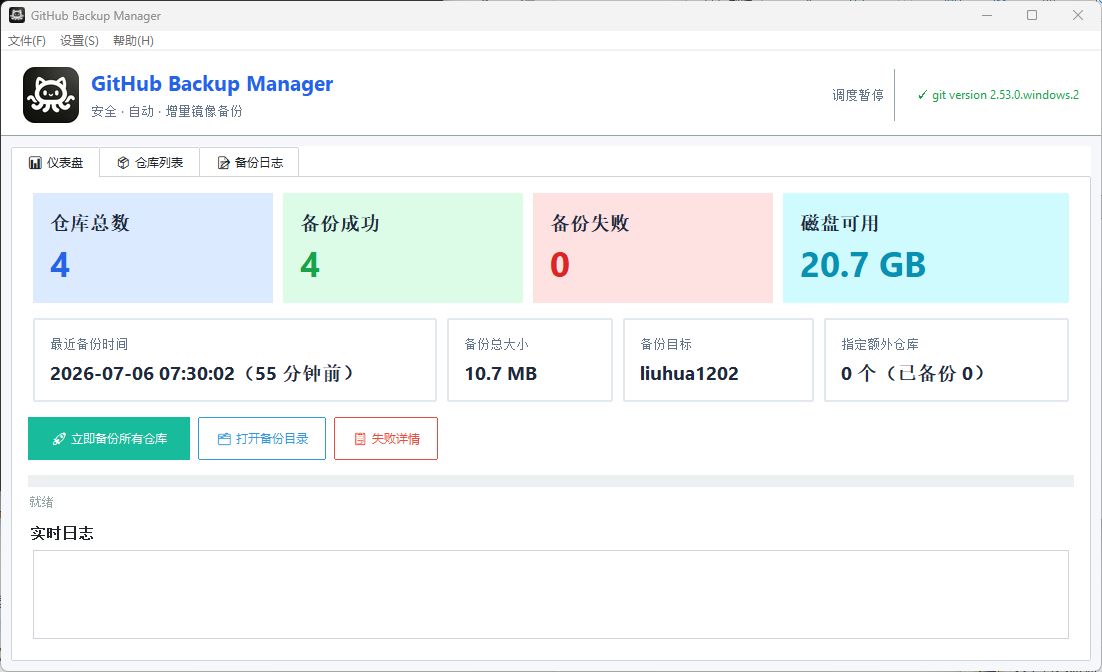
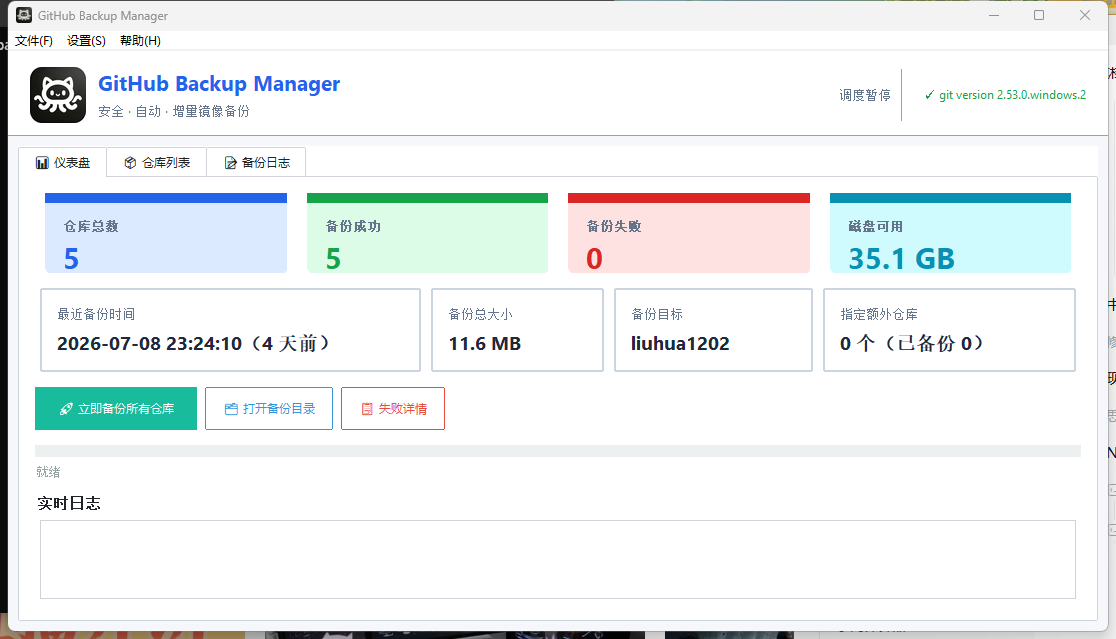
feat(ui): 仪表盘指标卡片升级为 Metro 磁贴风
v1.2.0 UI 升级

- 指标卡片：白底 + 4 边 6px 圆角 + 顶部 10px accent 描边 + 浅 accent 底
- 数值字色 = accent 色（与顶部描边联动）
- 卡片间距 padx 5 → 10
- Palette 新增 PRIMARY_LIGHT/SUCCESS_LIGHT/DANGER_LIGHT/INFO_LIGHT 4 个浅色常量
- BORDER 加深（slate-200 → slate-300），DPI 缩放下清晰

实现细节：
- _metric_card 重写为 Canvas 像素级自绘（4 PIESLICE + 中心矩形组合做圆角）
- 绕开 ttkbootstrap 强制覆盖 Canvas bg 的问题（widget bg 失效 → 内部画满铺矩形）
- 轻量 _Handle 类 mock Label 接口，val.configure(text=...) 同步 Canvas
- resize handler 用 tag_raise 重建 z 顺序（修之前会盖住文字的 bug）

其他：
- 修备份完成日志「失败=0」误标红（按 fail_count 显式判 level）
- 清理死代码 MetricCard*.TFrame 样式（已无人用）
- 修 BORDER 1px 在高 DPI 下不可见（→ 2px solid）

版本：v1.1.0 → v1.2.0

Changed region(s): [[0.0, 0.0, 1.0, 1.0]]

diff --git a/app.py b/app.py
@@ -9,7 +9,7 @@ GitHub Backup Manager - 桌面应用版
 
 from __future__ import annotations
 
-__version__ = "1.1.0"
+__version__ = "1.2.0"
 __author__ = "liuhua"
 __license__ = "MIT"
 
@@ -23,6 +23,7 @@ import datetime
 import subprocess
 import tkinter as tk
 from tkinter import filedialog, messagebox, ttk
+from tkinter.constants import PIESLICE  # Canvas 圆角辅助用
 from pathlib import Path
 from typing import Any
 
@@ -320,9 +321,15 @@ class Palette:
     WARNING  = "#f59e0b"   # 警告（橙）
     INFO     = "#0891b2"   # 信息（青）
 
+    # 语义色 — 浅底（Tailwind 100，仪表盘卡背景用）
+    PRIMARY_LIGHT = "#dbeafe"  # blue-100
+    SUCCESS_LIGHT = "#dcfce7"  # green-100
+    DANGER_LIGHT  = "#fee2e2"  # red-100
+    INFO_LIGHT    = "#cffafe"  # cyan-100
+
     # 边框
-    BORDER      = "#e2e8f0"
-    BORDER_LIGHT = "#f1f5f9"
+    BORDER      = "#cbd5e1"   # slate-300：仪表盘卡片描边
+    BORDER_LIGHT = "#e2e8f0"  # 浅一档，给 Treeview 等细线用
 
     # Treeview 状态色
     TV_SUCCESS = "#16a34a"
@@ -1307,25 +1314,8 @@ class BackupApp(ttkb.Window):
                   background=[("selected", Palette.PRIMARY)],
                   foreground=[("selected", "#ffffff")])
 
-        # ── 指标卡片：浅色大色块 ──
-        for name, bg, fg in [
-            ("Primary", "#dbeafe", Palette.PRIMARY),
-            ("Success", "#dcfce7", Palette.SUCCESS),
-            ("Danger", "#fee2e2", Palette.DANGER),
-            ("Info", "#cffafe", Palette.INFO),
-        ]:
-            style.configure(f"MetricCard{name}.TFrame", background=bg)
-            # 标题：深色文本 + 更大的字号，在浅色背景上对比度强，避免 accent 色
-            # 在 pastel 上"发飘"看不清
-            style.configure(f"MetricTitle{name}.TLabel",
-                            background=bg, foreground=Palette.TEXT_PRIMARY,
-                            font=("Segoe UI", 14, "bold"))
-            # 主数值：保持 accent 色，主视觉冲击
-            style.configure(f"MetricValue{name}.TLabel",
-                            background=bg, foreground=fg,
-                            font=("Segoe UI", 26, "bold"))
-
         # ── 信息卡片：白色背景 + 细边框 ──
+        # 注：指标卡片（_metric_card）改用 Canvas 自绘，不再依赖 ttk 样式
         style.configure("InfoCard.TFrame", background=Palette.BG_CARD, relief="solid",
                         borderwidth=1, bordercolor=Palette.BORDER)
         style.configure("InfoCardTitle.TLabel",
@@ -1640,24 +1630,130 @@ class BackupApp(ttkb.Window):
             return "log_success"
         return ""
 
-    def _metric_card(self, parent, title, value, style, col) -> ttkb.Label:
-        """创建摘要指标卡片：浅色大色块风格。"""
-        if style == SUCCESS:
-            name = "Success"
-        elif style == DANGER:
-            name = "Danger"
-        elif style == INFO:
-            name = "Info"
-        else:
-            name = "Primary"
+    def _metric_card(self, parent, title, value, style, col):
+        """创建摘要指标卡片：Metro 磁贴风 —— 浅 accent 圆角底 + 10px 顶部 accent 描边。
 
-        card = ttkb.Frame(parent, padding=15, style=f"MetricCard{name}.TFrame")
-        card.grid(row=0, column=col, padx=5, sticky=NSEW)
+        设计：参考 subnet-calculator 的 .tile 风格 + 自身浅色系配色方案
+            - 顶部 10px accent 描边（粗，强调语义，圆角）
+            - 卡片底色 = accent 浅色（Tailwind 100），四边 6px 圆角
+            - 数值大号，字色 = accent（与顶部描边联动，强语义）
+            - 标题小号次要文字色
+
+        实现：Canvas 像素级自绘（绕开 ttkbootstrap Canvas bg 覆盖问题）。
+        圆角通过 4 个 create_arc PIESLICE + 中心矩形组合。
+        z 顺序：bg < stripe < text —— 用 tag 标记保证 resize 重绘后顺序不乱。
+        """
+        # style(ttkbootstrap 常量) → (style 名称, accent 颜色, accent 浅色)
+        if style == SUCCESS:
+            name, accent, accent_light = "Success", Palette.SUCCESS, Palette.SUCCESS_LIGHT
+        elif style == DANGER:
+            name, accent, accent_light = "Danger", Palette.DANGER, Palette.DANGER_LIGHT
+        elif style == INFO:
+            name, accent, accent_light = "Info", Palette.INFO, Palette.INFO_LIGHT
+        else:
+            name, accent, accent_light = "Primary", Palette.PRIMARY, Palette.PRIMARY_LIGHT
+
+        RADIUS = 6     # 圆角半径
+        STRIPE_H = 10  # 顶部 accent 描边高度
+        CARD_H = 80    # 卡片总高
+
+        # Canvas 卡框：固定高度，圆角自绘
+        card = tk.Canvas(parent, highlightthickness=0, bd=0, height=CARD_H)
+        card.grid(row=0, column=col, padx=10, sticky=NSEW)
         parent.grid_columnconfigure(col, weight=1)
-        ttkb.Label(card, text=title, style=f"MetricTitle{name}.TLabel").pack(anchor=W)
-        val_label = ttkb.Label(card, text=value, style=f"MetricValue{name}.TLabel")
-        val_label.pack(anchor=W)
-        return val_label
+        parent.grid_rowconfigure(0, minsize=CARD_H)
+        card.grid_propagate(False)
+
+        # ── 圆角矩形辅助：4 个角的 PIESLICE + 中心矩形 ──
+        def _rounded_rect_all(x1, y1, x2, y2, r, **kw):
+            """四边都圆角的矩形，返回 item id 列表"""
+            r = max(0, min(r, (x2 - x1) / 2, (y2 - y1) / 2))
+            if r <= 0:
+                return [card.create_rectangle(x1, y1, x2, y2, **kw)]
+            ids = [
+                card.create_arc(x1, y1, x1 + 2*r, y1 + 2*r,
+                                start=90, extent=90, style=PIESLICE, **kw),
+                card.create_arc(x2 - 2*r, y1, x2, y1 + 2*r,
+                                start=0, extent=90, style=PIESLICE, **kw),
+                card.create_arc(x1, y2 - 2*r, x1 + 2*r, y2,
+                                start=180, extent=90, style=PIESLICE, **kw),
+                card.create_arc(x2 - 2*r, y2 - 2*r, x2, y2,
+                                start=270, extent=90, style=PIESLICE, **kw),
+                card.create_rectangle(x1 + r, y1, x2 - r, y2, **kw),
+                card.create_rectangle(x1, y1 + r, x2, y2 - r, **kw),
+                card.create_rectangle(x1 + r, y1 + r, x2 - r, y2 - r, **kw),
+            ]
+            return ids
+
+        def _rounded_top_rect(x1, y1, x2, y2, r, **kw):
+            """仅顶部圆角的矩形（底部直角），返回 item id 列表"""
+            r = max(0, min(r, (x2 - x1) / 2, (y2 - y1) / 2))
+            if r <= 0:
+                return [card.create_rectangle(x1, y1, x2, y2, **kw)]
+            ids = [
+                card.create_arc(x1, y1, x1 + 2*r, y1 + 2*r,
+                                start=90, extent=90, style=PIESLICE, **kw),
+                card.create_arc(x2 - 2*r, y1, x2, y1 + 2*r,
+                                start=0, extent=90, style=PIESLICE, **kw),
+                card.create_rectangle(x1, y1, x2, y2, **kw),
+            ]
+            return ids
+
+        # ── 绘制：bg + stripe + text，全部用 tag 标记方便 z 排序 ──
+        _bg_items = _rounded_rect_all(0, 0, 100, CARD_H, RADIUS,
+                                       fill=accent_light, outline="",
+                                       tags=("bg",))
+        _stripe_items = _rounded_top_rect(0, 0, 100, STRIPE_H, RADIUS,
+                                           fill=accent, outline="",
+                                           tags=("stripe",))
+        _title_id = card.create_text(18, 24, text=title, anchor=NW,
+                                      fill=Palette.TEXT_SECONDARY,
+                                      font=("Segoe UI", 10, "bold"),
+                                      tags=("text",))
+        _value_id = card.create_text(18, 44, text=value, anchor=NW,
+                                      fill=accent,
+                                      font=("Segoe UI", 22, "bold"),
+                                      tags=("text",))
+        # 显式建立 z 顺序：bg < stripe < text
+        card.tag_raise("stripe", "bg")
+        card.tag_raise("text", "stripe")
+
+        # ── resize：删除旧圆角 item，重绘后用 tag 重建 z 顺序 ──
+        def _on_resize(event):
+            for item in _bg_items + _stripe_items:
+                card.delete(item)
+            new_bg = _rounded_rect_all(0, 0, event.width, CARD_H, RADIUS,
+                                        fill=accent_light, outline="",
+                                        tags=("bg",))
+            new_stripe = _rounded_top_rect(0, 0, event.width, STRIPE_H, RADIUS,
+                                            fill=accent, outline="",
+                                            tags=("stripe",))
+            _bg_items.clear()
+            _bg_items.extend(new_bg)
+            _stripe_items.clear()
+            _stripe_items.extend(new_stripe)
+            # 关键：resize 后新 bg/stripe 在 text 之后创建，会盖住 text，
+            # 必须重新建立 z 顺序
+            card.tag_raise("stripe", "bg")
+            card.tag_raise("text", "stripe")
+        card.bind("<Configure>", _on_resize)
+
+        # ── 句柄：模拟 ttkb.Label 接口，val.configure(text=...) 走 itemconfigure ──
+        class _Handle:
+            def __init__(self, initial):
+                self._text = initial
+            def configure(self, cnf=None, **kwargs):
+                if "text" in kwargs:
+                    self._text = kwargs["text"]
+                    card.itemconfigure(_value_id, text=self._text)
+                # 其他 configure 项（state、font 等）静默忽略
+            config = configure
+            def cget(self, key):
+                if key == "text":
+                    return self._text
+                return None
+
+        return _Handle(value)
 
     def _info_card(self, parent, title, value, col) -> ttkb.Label:
         """信息卡片：白色背景 + 标题 + 数值。"""

diff --git a/CHANGELOG.md b/CHANGELOG.md
@@ -3,6 +3,34 @@
 All notable changes to **GitHub Backup Manager** are documented here.
 Format: [SemVer](https://semver.org/). 项目作者：liuhua。
 
+## [v1.2.0] - 2026-07-13
+
+### 🎨 UI 升级
+- **仪表盘指标卡片重做**（Metro 磁贴风，参考 subnet-calculator `.tile` 风格）
+  - **顶部 10px accent 描边**：粗条带，凸显卡片语义（蓝/绿/红/青）
+  - **卡片底色 = accent 浅色版**（Tailwind 100 调色板）：dbeafe / dcfce7 / fee2e2 / cffafe
+  - **4 边 6px 圆角**：Canvas 像素级自绘（4 个 PIESLICE + 中心矩形组合）
+  - **数值字色 = accent 色**：与顶部描边联动，强语义化
+  - **卡片间距 padx 10**：更通透
+- **Palette 调色板扩展**：新增 `PRIMARY_LIGHT` / `SUCCESS_LIGHT` / `DANGER_LIGHT` / `INFO_LIGHT` 4 个浅色常量
+- **BORDER 加深**：从 `#e2e8f0` (slate-200) 改为 `#cbd5e1` (slate-300)，高 DPI 缩放下也清晰
+
+### 🐛 修复
+- **备份完成日志「失败 = 0」不再误标红**：之前用 `_infer_level` 启发式看到"失败"字眼就 ERROR，现在显式按 `fail_count > 0` 决定 level
+- **修复窗口 resize 后仪表盘文字消失**：Canvas 自绘的圆角 bg/stripe 在 resize handler 重画后会盖住 text 元素 —— 改用 `tag_raise("text", "stripe")` 显式重建 z 顺序
+- **修复 Windows 高 DPI 缩放下 1px 边框不可见**：边框用 `ttk.Frame` 的 `relief="solid", borderwidth=2, bordercolor=BORDER`，比 bg-trick 稳
+
+### 🛠 重构
+- **`_metric_card` 重写为 Canvas 像素级自绘**：原来用 `tk.Frame` + pack/grid 各种踩坑（ttk padding 吃 pack 间隙 / grid propagate 缩掉 stripe / ttkbootstrap Canvas bg 被覆盖），最终方案：Canvas 内部画圆角矩形 + 顶条 + 文字
+- **轻量 `_Handle` 类 mock Label 接口**：`val.configure(text=...)` 自动同步 Canvas 文字，调用方无感
+- **删除死代码**：`MetricCard*.TFrame` 样式已无人使用（v1.2.0 改 Canvas 自绘）
+
+### 📝 文档
+- **README.md** 更新版本号到 v1.2.0 + 替换仪表盘截图
+- **CHANGELOG.md** 加 v1.2.0 段
+
+---
+
 ## [v1.1.0] - 2026-07-06
 
 ### 🎨 新增 / 优化

diff --git a/README.md b/README.md
@@ -1,6 +1,6 @@
 # GitHub Backup Manager · GitHub 仓库桌面备份工具
 
-[![Version](https://img.shields.io/badge/version-v1.1.0-0078d4?style=flat-square)](#-v110-变更摘要)
+[![Version](https://img.shields.io/badge/version-v1.2.0-0078d4?style=flat-square)](#-v120-变更摘要)
 [![License: MIT](https://img.shields.io/badge/License-MIT-yellow.svg?style=flat-square)](#-许可证)
 [![Platform](https://img.shields.io/badge/platform-Windows%20%7C%20macOS%20%7C%20Linux-0078d4?style=flat-square)](#-特性)
 [![Python](https://img.shields.io/badge/python-3.10%2B-3776AB?style=flat-square)](https://www.python.org/)
@@ -30,7 +30,7 @@ APScheduler 定时调度、Token 安全脱敏、嵌入式 IDE 风格文件浏览
 <p align="center">
   <img src="docs/screenshots/dashboard.png" alt="GitHub Backup Manager 仪表盘" width="900">
 </p>
-<p align="center"><em>仪表盘 —— 仓库总数 / 备份成功失败 / 磁盘可用 / 备份目标 / 实时日志</em></p>
+<p align="center"><em>仪表盘 —— Metro 磁贴风指标卡片（顶部 10px accent 描边 + 浅 accent 圆角底）+ 仓库总数 / 备份成功失败 / 磁盘可用 / 备份目标 / 实时日志</em></p>
 
 <p align="center">
   <img src="docs/screenshots/repo-list.png" alt="GitHub Backup Manager 仓库列表" width="900">
@@ -104,11 +104,11 @@ APScheduler 定时调度、Token 安全脱敏、嵌入式 IDE 风格文件浏览
 
 | 平台 | 文件 | 大小 | 说明 |
 | :--- | :--- | :--- | :--- |
-| Windows | `GitHub-Backup-Manager-v1.1.0-windows-x86_64.zip` | ~10 MB | 单文件可执行，解压即用 |
+| Windows | `GitHub-Backup-Manager-v1.2.0-windows-x86_64.zip` | ~10 MB | 单文件可执行，解压即用 |
 | macOS | `Source code (zip)` | — | 暂未提供 macOS 二进制（PyInstaller 需跨平台编译） |
 | Linux | `Source code (tar.gz)` | — | 同上 |
 
-### v1.1.0 SHA256
+### v1.2.0 SHA256
 
 ```
 （release 创建后由 GitHub Action 自动生成并展示）
@@ -131,7 +131,7 @@ python app.py
 
 ### Windows 单文件版
 
-下载 `GitHub-Backup-Manager-v1.1.0-windows-x86_64.zip` → 解压 → 双击 `GitHubBackupManager.exe` 运行。
+下载 `GitHub-Backup-Manager-v1.2.0-windows-x86_64.zip` → 解压 → 双击 `GitHubBackupManager.exe` 运行。
 
 启动后弹出首次设置向导：
 
@@ -230,6 +230,21 @@ pyinstaller --onefile --windowed --name GitHubBackupManager \
 | 找不到 `config.json` | 路径在 Windows 可能被杀毒软件隔离 |
 
 ---
+
+## 🆕 v1.2.0 变更摘要
+
+相对 v1.1.0：
+- 🎨 **仪表盘指标卡片重做**（Metro 磁贴风）
+  - 顶部 10px accent 描边（粗，凸显卡片语义）
+  - 卡片底色 = accent 浅色版（Tailwind 100）
+  - 4 边 6px 圆角
+  - 数值字色 = accent 色（与顶部联动）
+  - 卡片间距 padx 10
+- 🛠 **`_metric_card` 重写为 Canvas 像素级自绘**：绕开 ttkbootstrap Canvas bg 覆盖问题，4 个 PIESLICE + 中心矩形组合实现圆角
+- 🐛 **修窗口 resize 后仪表盘文字消失**：resize handler 重画时用 `tag_raise` 重建 z 顺序
+- 🐛 **修「失败 = 0」误标红**：`final_level` 显式按 `fail_count > 0` 决定
+- 🐛 **修 Windows 高 DPI 下 1px 边框不可见**：用 ttk `relief="solid", borderwidth=2`
+- 📝 **CHANGELOG / README** 同步更新
 
 ## 🆕 v1.1.0 变更摘要
 